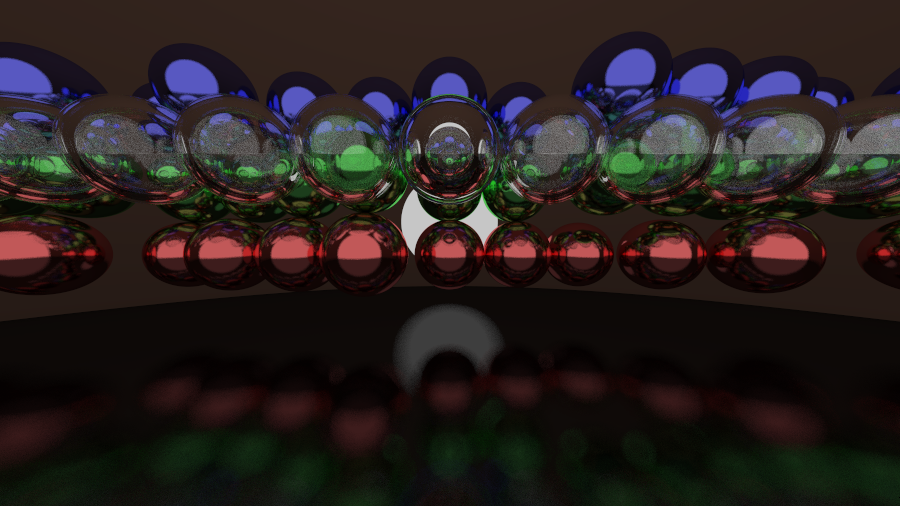
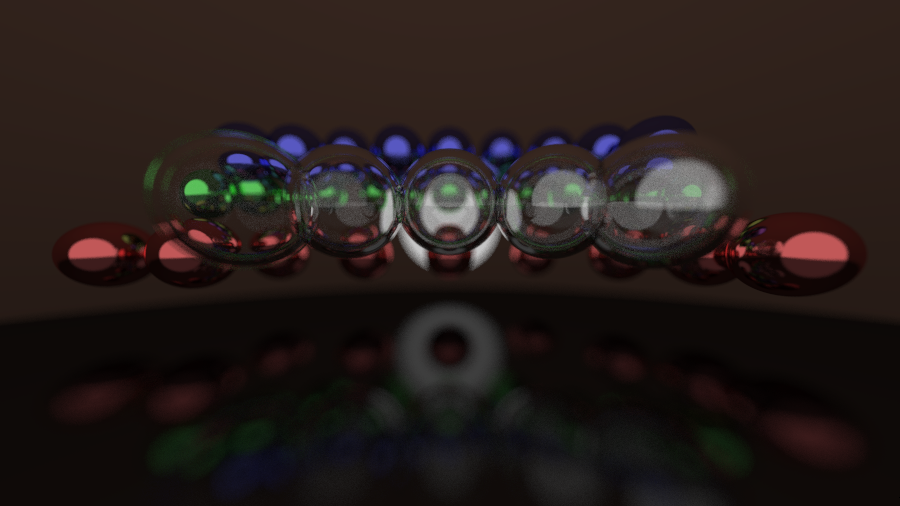
Chapter 12: Defocus blur

diff --git a/src/my_scene.rs b/src/my_scene.rs
@@ -10,7 +10,7 @@ pub const OUTPUT_NAME: &str = "my_scene_output.png";
 pub const ASPECT_RATIO: f32 = 16.0 / 9.0;
 pub const WIDTH: usize = 900;
 pub const HEIGHT: usize = (WIDTH as f32 / ASPECT_RATIO) as usize;
-pub const SAMPLE_PER_PIXEL: usize = 80;
+pub const SAMPLE_PER_PIXEL: usize = 200;
 pub const MAX_DEPTH: usize = 25;
 
 const MAX: f32 = 0.95;
@@ -29,6 +29,26 @@ pub const LIGHT: LightSource = LightSource::new(Color::new(LMAX, LMED, LDIF));
 
 pub fn init_world_and_camera() {
     let mut r = StdRng::seed_from_u64(SEED);
+
+    let look_from = glm::vec3(0.0, 0.0, 0.0);
+    let look_at = glm::vec3(0.0, 0.0, -2.5);
+    let v_up = glm::vec3(0.0, 1.0, 0.0);
+    let dist_to_focus = (look_from - glm::vec3(0.0, 1.0, -3.0)).norm();
+    let aperture = 0.25;
+    let camera = Camera::new(
+        look_from,
+        look_at,
+        v_up,
+        90.0,
+        ASPECT_RATIO,
+        aperture,
+        dist_to_focus,
+    );
+
+    if CAMERA.set(camera).is_err() {
+        panic!("Tried to set CAMERA twice. This is a bug");
+    }
+
     let mut world = HittableList::default();
     world.add(Box::new(Sphere::new(
         glm::vec3(0.0, -100.9, -1.0),
@@ -40,38 +60,40 @@ pub fn init_world_and_camera() {
     //     100.0,
     //     Arc::new(METAL),
     // )));
-    for x in -9..9 {
+    for x in -4..5 {
         world.add(Box::new(Sphere::new(
-            glm::vec3(x as f32, 0.0, -3.0 - r.gen::<f32>()),
+            ((glm::vec3(x as f32, 0.0, -3.0) - glm::vec3(0.0, 0.0, 0.0)).normalize()
+                + glm::vec3(0.0, 0.0, 0.0))
+                * (5.0 + 1.5 * r.gen::<f32>()),
             0.5,
             Arc::new(RED_METAL),
         )));
     }
-    for x in -9..9 {
+    for x in -4..5 {
         world.add(Box::new(Sphere::new(
-            glm::vec3(x as f32, 1.0, -3.0 - r.gen::<f32>()),
+            ((glm::vec3(x as f32, 1.0, -3.0) - glm::vec3(0.0, 0.0, 1.0)).normalize()
+                + glm::vec3(0.0, 0.0, 0.0))
+                * (5.0 + 1.5 * r.gen::<f32>()),
             0.5,
             Arc::new(GREEN_METAL),
         )));
     }
-    for x in -9..9 {
+    for x in -4..5 {
         world.add(Box::new(Sphere::new(
-            glm::vec3(x as f32, 2.0, -3.0 - r.gen::<f32>()),
+            ((glm::vec3(x as f32, 2.0, -3.0) - glm::vec3(0.0, 0.0, 2.0)).normalize()
+                + glm::vec3(0.0, 0.0, 0.0))
+                * (5.0 + 1.5 * r.gen::<f32>()),
             0.5,
             Arc::new(BLUE_METAL),
         )));
     }
-    for x in -5..5 {
-        world.add(Box::new(Sphere::new(
-            glm::vec3(x as f32, 1.0, -2.5),
-            0.5,
-            Arc::new(Dielectic::new(2.0 + x as f32 / 10.0)),
-        )));
-        world.add(Box::new(Sphere::new(
-            glm::vec3(x as f32, 1.0, -2.5),
-            -0.4,
-            Arc::new(Dielectic::new(2.0 + x as f32 / 10.0)),
-        )));
+    for x in -2..3 {
+        let p = ((glm::vec3(x as f32, 0.5, -2.5) - glm::Vec3::zeros()).normalize()
+            + glm::Vec3::zeros())
+            * (3.5);
+        let d = Dielectic::new((5.0 + x as f32) / 2.5);
+        world.add(Box::new(Sphere::new(p, 0.7, Arc::new(d.clone()))));
+        world.add(Box::new(Sphere::new(p, -0.60, Arc::new(d))));
     }
     world.add(Box::new(Sphere::new(
         glm::vec3(0.0, 0.0, 22.0),
@@ -83,24 +105,8 @@ pub fn init_world_and_camera() {
         1.5,
         Arc::new(LIGHT),
     )));
-    world.add(Box::new(Sphere::new(
-        glm::vec3(0.0, 1.0, -2.50),
-        0.5,
-        Arc::new(Dielectic::new(1.2)),
-    )));
     if WORLD.set(world).is_err() {
         panic!("Tried to set WORLD twice. This is a bug");
-    }
-
-    let camera = Camera::new(
-        glm::vec3(0.0, 0.0, 0.0),
-        glm::vec3(0.0, 0.0, -1.0),
-        glm::vec3(0.0, 1.0, 0.0),
-        90.0,
-        ASPECT_RATIO,
-    );
-    if CAMERA.set(camera).is_err() {
-        panic!("Tried to set CAMERA twice. This is a bug");
     }
 }
 

diff --git a/src/main.rs b/src/main.rs
@@ -24,7 +24,7 @@ use crate::camera::Camera;
 use crate::hittable::Hittable;
 extern crate nalgebra_glm as glm;
 use image::{Rgb, RgbImage};
-use once_cell::sync::OnceCell;
+use once_cell::sync::{Lazy, OnceCell};
 use rand::rngs::StdRng;
 use rand::{Rng, SeedableRng};
 use rand_distr::{Distribution, UnitBall};
@@ -70,17 +70,20 @@ fn main() {
     init_world_and_camera();
 
     set_noise();
+
     // Render everything
-    update_buffer(&mut buffer, &mut window);
+    let finished = update_buffer(&mut buffer, &mut window);
 
     eprintln!(
         "\rFinished in {:.2}s",
         now.elapsed().as_millis() as f32 / 1000.0
     );
 
-    save_buffer(&buffer, save_path);
+    if finished {
+        save_buffer(&buffer, save_path);
 
-    eprintln!("Image saved to {save_path}");
+        eprintln!("Image saved to {save_path}");
+    }
 
     // Loop to keep window open
     while window.is_open() && !window.is_key_down(Key::Escape) {
@@ -97,11 +100,11 @@ fn save_buffer(buffer: &[u32], path: impl AsRef<path::Path>) {
     buffer2.save(path).unwrap();
 }
 
-fn update_buffer(buffer: &mut [u32], window: &mut Window) {
+fn update_buffer(buffer: &mut [u32], window: &mut Window) -> bool {
     let (sender, receiver) = mpsc::sync_channel(HEIGHT * WIDTH + 1);
     thread::spawn(move || {
         (0..(HEIGHT * WIDTH)).into_par_iter().for_each(|xy| {
-            let (x, y) = space_filler::filling_curve(xy, WIDTH, HEIGHT);
+            let (x, y) = space_filler::filling_curve(xy);
             let color = pixel_processing(x, HEIGHT - y);
             if sender.send((x + y * WIDTH, color)).is_err() {}
         });
@@ -114,13 +117,14 @@ fn update_buffer(buffer: &mut [u32], window: &mut Window) {
             now = std::time::Instant::now();
             window.update_with_buffer(buffer, WIDTH, HEIGHT).unwrap();
             if window.is_key_down(Key::Escape) {
-                return;
+                return false;
             }
             let progress = i as f32 / (HEIGHT * WIDTH) as f32;
             eprint!("\r{:.1}%", progress * 100.0);
             stdout().flush().unwrap();
         }
     }
+    true
 }
 
 fn pixel_processing(i: usize, j: usize) -> (u8, u8, u8) {

diff --git a/src/camera.rs b/src/camera.rs
@@ -1,9 +1,15 @@
-use crate::ray::Ray;
+use rand_distr::UnitSphere;
+
+use crate::*;
 pub struct Camera {
     pub origin: glm::Vec3,
     pub lower_left_corner: glm::Vec3,
     pub horizontal: glm::Vec3,
     pub vertical: glm::Vec3,
+    pub u: glm::Vec3,
+    pub v: glm::Vec3,
+    pub w: glm::Vec3,
+    pub lens_radius: f32,
 }
 
 impl Camera {
@@ -13,6 +19,9 @@ impl Camera {
         vup: glm::Vec3,
         vfov: f32,
         aspect_ratio: f32,
+
+        aperture: f32,
+        focus_dist: f32,
     ) -> Camera {
         let theta = vfov.to_radians();
         let h = (theta / 2.0).tan();
@@ -25,21 +34,34 @@ impl Camera {
         let v = w.cross(&u);
 
         let origin = look_from;
-        let horizontal = view_port_width * u;
-        let vertical = view_port_height * v;
+        let horizontal = focus_dist * view_port_width * u;
+        let vertical = focus_dist * view_port_height * v;
 
-        let lower_left_corner = origin - horizontal / 2. - vertical / 2. - w;
+        let lower_left_corner = origin - horizontal / 2. - vertical / 2. - focus_dist * w;
+
+        let lens_radius = aperture / 2.0;
         Camera {
             origin,
             lower_left_corner,
             horizontal,
             vertical,
+            u,
+            v,
+            w,
+            lens_radius,
         }
     }
     pub fn get_ray(&self, s: f32, t: f32) -> Ray {
+        let rd = self.lens_radius * random_in_unit_disk(s + t);
+        let offset = self.u * rd.x + self.v * rd.y;
         Ray::new(
-            self.origin,
-            self.lower_left_corner + s * self.horizontal + t * self.vertical - self.origin,
+            self.origin + offset,
+            self.lower_left_corner + s * self.horizontal + t * self.vertical - self.origin - offset,
         )
     }
+}
+
+fn random_in_unit_disk(seed: f32) -> glm::Vec3 {
+    let r = &mut StdRng::seed_from_u64(f32_to_unique_u64(seed));
+    glm::make_vec3(&UnitSphere.sample(r)).normalize()
 }

diff --git a/src/noise.rs b/src/noise.rs
@@ -2,24 +2,31 @@
 
 use crate::*;
 
-pub static NOISE: OnceCell<[(f32, f32); SAMPLE_PER_PIXEL]> = OnceCell::new();
+pub static NOISE: Lazy<[(f32, f32); SAMPLE_PER_PIXEL]> = Lazy::new(|| {
+    blue_noise(SAMPLE_PER_PIXEL)
+        .iter()
+        .map(|p| (p.x, p.y))
+        .collect::<Vec<(f32, f32)>>()
+        .try_into()
+        .unwrap()
+});
 
 #[inline]
 pub fn randx(i: usize) -> f32 {
-    NOISE.get().unwrap().get(i).unwrap().0
-    // rand::random()
+    NOISE.get(i).unwrap().0 //.get(i).unwrap().0
+                            // rand::random()
 }
 
 #[inline]
 pub fn randy(i: usize) -> f32 {
-    NOISE.get().unwrap().get(i).unwrap().1
-    // rand::random()
+    NOISE.get(i).unwrap().1 //.get(i).unwrap().1
+                            // rand::random()
 }
 
-pub fn blue_noise() -> Vec<glm::Vec2> {
+pub fn blue_noise(amount: usize) -> Vec<glm::Vec2> {
     let mut r = StdRng::seed_from_u64(SEED);
     let mut samples = Vec::new();
-    for sample_index in 0..SAMPLE_PER_PIXEL {
+    for sample_index in 0..amount {
         let mut best_score = f32::NEG_INFINITY;
         let mut best_candidate: Option<glm::Vec2> = None;
         for _ in 0..sample_index + 1 {
@@ -52,11 +59,11 @@ pub fn toroidal_distance(a: &glm::Vec2, b: &glm::Vec2) -> f32 {
     (dx * dx + dy * dy).sqrt()
 }
 pub fn set_noise() {
-    let noise = blue_noise()
-        .iter()
-        .map(|p| (p.x, p.y))
-        .collect::<Vec<(f32, f32)>>();
-    NOISE
-        .set(noise.try_into().unwrap())
-        .expect("NOISE set twice. This is a bug");
+    // let noise = blue_noise()
+    //     .iter()
+    //     .map(|p| (p.x, p.y))
+    //     .collect::<Vec<(f32, f32)>>();
+    // NOISE
+    //     .set(noise.try_into().unwrap())
+    //     .expect("NOISE set twice. This is a bug");
 }

diff --git a/src/space_filler.rs b/src/space_filler.rs
@@ -1,6 +1,22 @@
-pub fn filling_curve(xy: usize, width: usize, height: usize) -> (usize, usize) {
-    let xy = (xy * 10) % (width * height + 1);
-    let y = xy % height;
-    let x = xy / height;
-    (x, y)
+// use rand::seq::SliceRandom;
+// use rand::thread_rng;
+
+use crate::*;
+
+static CURVE: Lazy<Vec<(usize, usize)>> = Lazy::new(|| {
+    let mut curve = Vec::new();
+    for xy in 0..(WIDTH * HEIGHT) {
+        curve.push({
+            let xy = (xy * 10) % (WIDTH * HEIGHT + 1);
+            let y = xy % HEIGHT;
+            let x = xy / HEIGHT;
+            (x, y)
+        });
+    }
+    // curve.shuffle(&mut thread_rng());
+    curve
+});
+
+pub fn filling_curve(xy: usize) -> (usize, usize) {
+    *CURVE.get(xy).unwrap()
 }

diff --git a/src/scene.rs b/src/scene.rs
@@ -55,12 +55,19 @@ pub fn init_world_and_camera() {
         panic!("Tried to set WORLD twice. This is a bug");
     }
 
+    let look_from = glm::vec3(3.0, 3.0, 2.0);
+    let look_at = glm::vec3(0.0, 0.0, -1.0);
+    let v_up = glm::vec3(0.0, 1.0, 0.0);
+    let dist_to_focus = (look_from - look_at).norm();
+    let aperture = 2.0;
     let camera = Camera::new(
-        glm::vec3(-2.0, 2.0, 1.0),
-        glm::vec3(0.0, 0.0, -1.0),
-        glm::vec3(0.0, 1.0, 0.0),
+        look_from,
+        look_at,
+        v_up,
         20.0,
         ASPECT_RATIO,
+        aperture,
+        dist_to_focus,
     );
     if CAMERA.set(camera).is_err() {
         panic!("Tried to set CAMERA twice. This is a bug");

diff --git a/src/material.rs b/src/material.rs
@@ -20,6 +20,7 @@ pub trait Material {
 
 pub type MaterialObject = Arc<dyn Material + Send + Sync>;
 
+#[derive(Debug, Clone)]
 pub struct Lambertian {
     pub albedo: Color,
 }
@@ -41,6 +42,7 @@ impl Material for Lambertian {
     }
 }
 
+#[derive(Debug, Clone)]
 pub struct Metal {
     pub albedo: Color,
     pub fuzz: f32,
@@ -67,6 +69,7 @@ impl Material for Metal {
     }
 }
 
+#[derive(Debug, Clone)]
 pub struct LightSource {
     pub albedo: Color,
 }
@@ -83,6 +86,7 @@ impl Material for LightSource {
     }
 }
 
+#[derive(Debug, Clone)]
 pub struct Dielectic {
     pub refraction_i: f32,
 }
